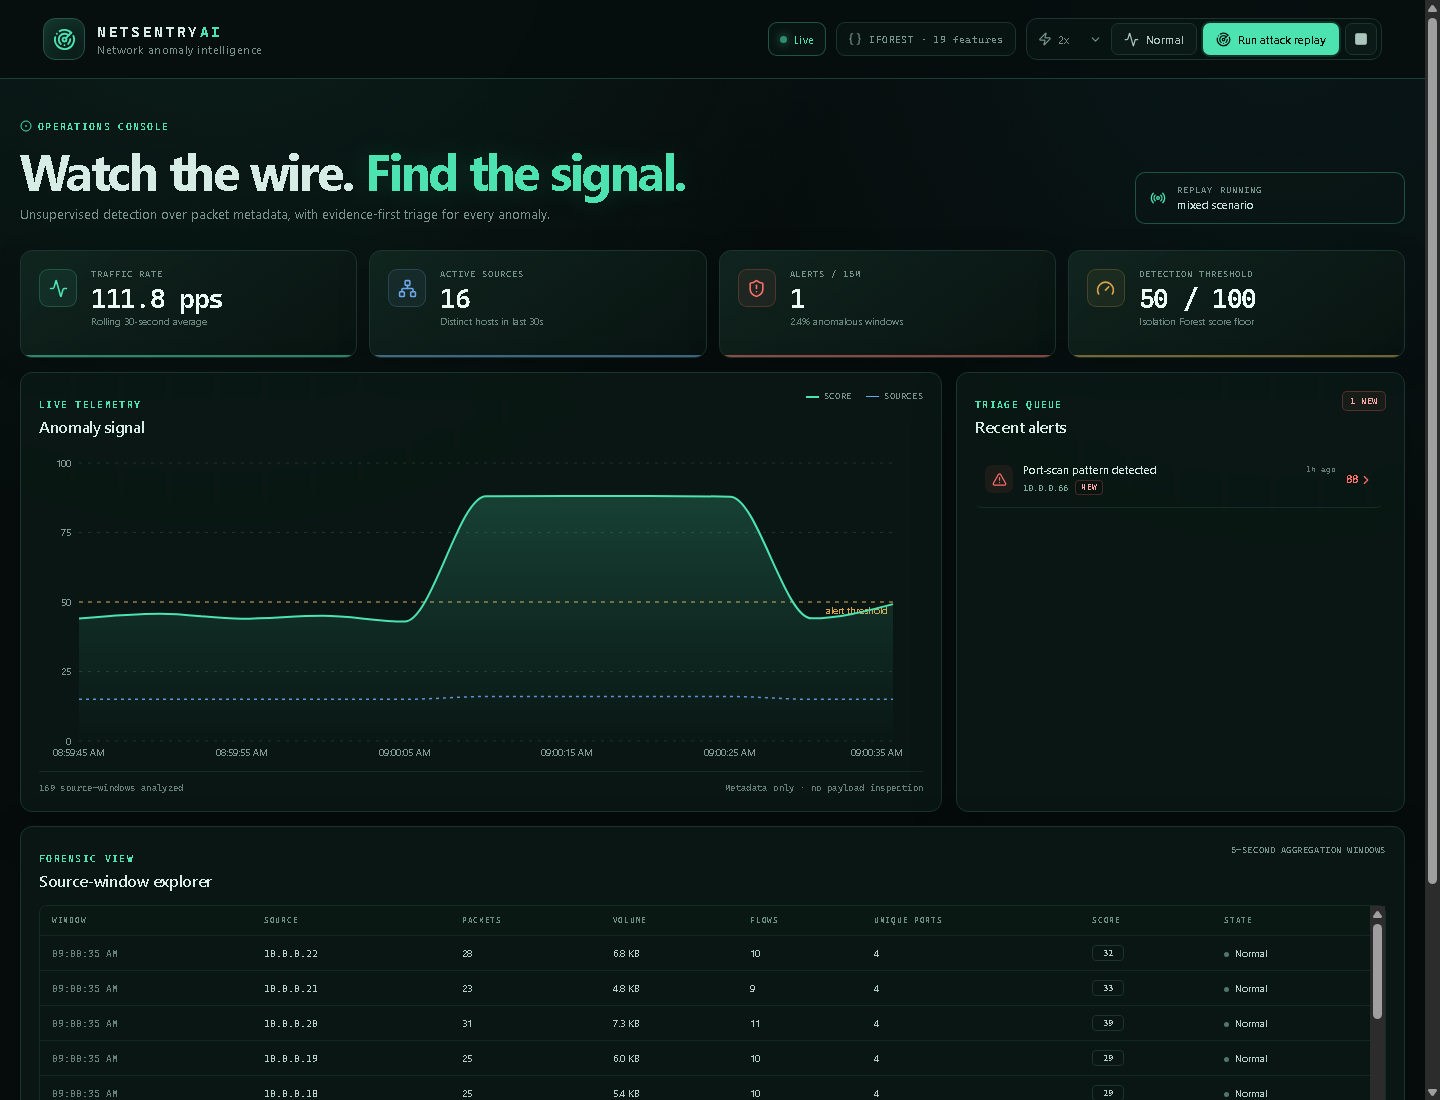
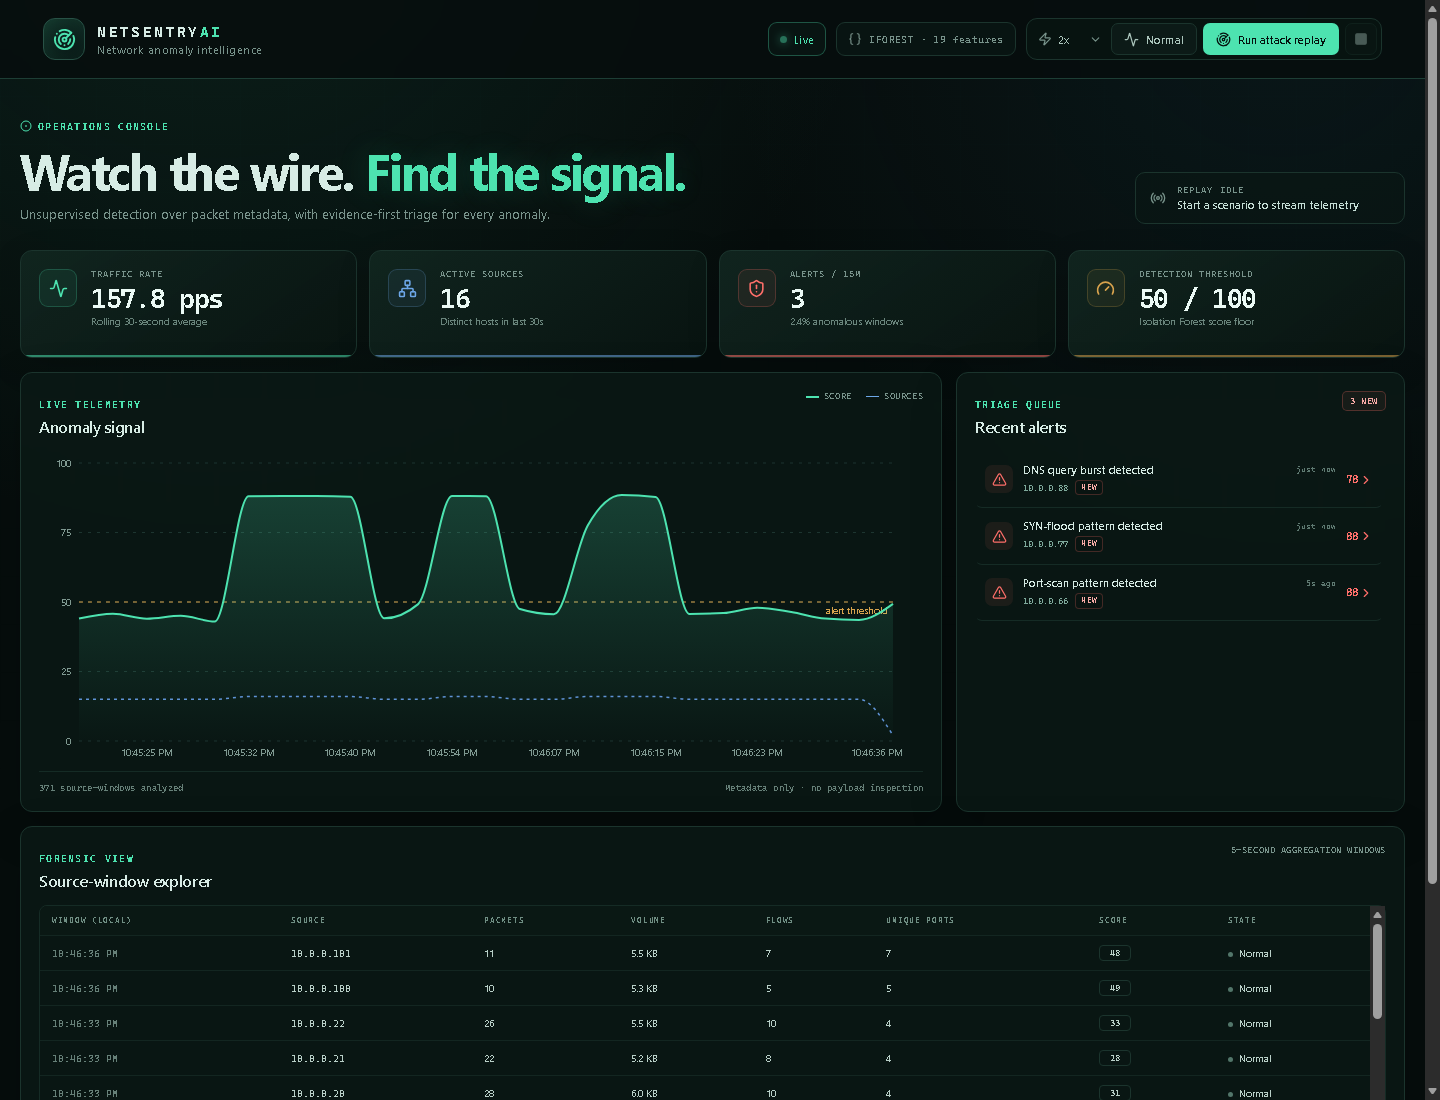
Synchronize replay and forensic timestamps

diff --git a/frontend/src/components/FlowTable.tsx b/frontend/src/components/FlowTable.tsx
@@ -11,7 +11,7 @@ export function FlowTable({ flows }: FlowTableProps) {
       <table>
         <thead>
           <tr>
-            <th>Window</th>
+            <th>Window (local)</th>
             <th>Source</th>
             <th>Packets</th>
             <th>Volume</th>

diff --git a/backend/app/api/routes.py b/backend/app/api/routes.py
@@ -9,6 +9,7 @@ from sqlalchemy.orm import Session
 
 from ..db import get_db
 from ..models import Alert, FlowWindow
+from ..timeutils import ensure_utc
 from ..schemas import (
     AlertDetail,
     AlertOut,
@@ -35,8 +36,8 @@ def _alert_out(alert: Alert) -> AlertOut:
         title=alert.title,
         reasons=[FeatureOut(**item) for item in json.loads(alert.reasons_json)],
         status=alert.status,
-        created_at=alert.created_at,
-        updated_at=alert.updated_at,
+        created_at=ensure_utc(alert.created_at),
+        updated_at=ensure_utc(alert.updated_at),
     )
 
 
@@ -44,8 +45,8 @@ def _flow_out(flow: FlowWindow) -> FlowWindowOut:
     return FlowWindowOut(
         id=flow.id,
         source_ip=flow.source_ip,
-        window_start=flow.window_start,
-        window_end=flow.window_end,
+        window_start=ensure_utc(flow.window_start),
+        window_end=ensure_utc(flow.window_end),
         packet_count=flow.packet_count,
         byte_count=flow.byte_count,
         flow_count=flow.flow_count,
@@ -105,7 +106,7 @@ def summary(request: Request, db: Session = Depends(get_db)) -> SummaryOut:
     ).all()
     timeline = [
         TimelinePoint(
-            timestamp=row.window_start,
+            timestamp=ensure_utc(row.window_start),
             max_score=round(float(row.max_score), 2),
             packets=int(row.packets),
             bytes=int(row.bytes),
@@ -202,4 +203,5 @@ def reset_data(db: Session = Depends(get_db)) -> dict:
     db.query(FlowWindow).delete()
     db.commit()
     return {"status": "reset"}
+
 

diff --git a/backend/tests/test_api.py b/backend/tests/test_api.py
@@ -1,4 +1,5 @@
 from fastapi.testclient import TestClient
+import time
 
 from app.main import app
 
@@ -20,12 +21,30 @@ def test_websocket_stream_announces_itself() -> None:
 
 def test_demo_and_dashboard_flow() -> None:
     with TestClient(app) as client:
-        start = client.post("/api/demo/start", json={"scenario": "mixed", "speed": 5, "reset": True})
+        start = client.post(
+            "/api/demo/start",
+            json={"scenario": "mixed", "speed": 5, "reset": True},
+        )
         assert start.status_code == 200
         assert start.json()["running"] is True
+
+        deadline = time.monotonic() + 6
+        delivered = 0
+        while time.monotonic() < deadline:
+            time.sleep(0.2)
+            delivered = client.get("/api/health").json()["demo"]["windows_delivered"]
+            if delivered:
+                break
+        assert delivered > 0
+
         response = client.get("/api/summary")
         assert response.status_code == 200
         assert "timeline" in response.json()
+
+        flows = client.get("/api/flows?limit=1").json()
+        assert flows
+        assert flows[0]["window_start"].endswith("Z") or flows[0]["window_start"].endswith("+00:00")
+
         stop = client.post("/api/demo/stop")
         assert stop.status_code == 200
         assert stop.json()["running"] is False

diff --git a/backend/app/demo/runner.py b/backend/app/demo/runner.py
@@ -1,6 +1,7 @@
 from __future__ import annotations
 
 import asyncio
+from datetime import datetime, timedelta, timezone
 from itertools import groupby
 
 from sqlalchemy import delete
@@ -68,12 +69,20 @@ class DemoRunner:
             for _, batch in groupby(windows, key=lambda item: item.window_start):
                 await asyncio.sleep(settings.demo_interval_seconds / max(speed, 0.25))
                 batch_list = list(batch)
+                # Replayed PCs are recorded traffic, not live events. Stamp each batch with
+                # the actual replay time so the chart, forensic table, and alert timestamps
+                # share the same wall-clock basis. The source PCAP remains the forensic record.
+                replay_time = datetime.now(timezone.utc)
                 for window in batch_list:
+                    window.window_start = replay_time
+                    window.window_end = replay_time + timedelta(seconds=settings.window_seconds)
                     await self.engine.ingest(window)
                     self.windows_delivered += 1
                 await self.broadcaster.broadcast("demo", self.status())
         finally:
             self.running = False
             await self.broadcaster.broadcast("demo", self.status())
+
+
 
 

diff --git a/backend/app/engine.py b/backend/app/engine.py
@@ -11,6 +11,7 @@ from .db import SessionLocal
 from .features.extractor import FeatureWindow
 from .ml.detector import AnomalyDetector, DetectionResult
 from .models import Alert, FlowWindow
+from .timeutils import iso_utc
 from .ws import ConnectionManager
 
 
@@ -123,6 +124,7 @@ class DetectionEngine:
             "title": alert.title,
             "reasons": json.loads(alert.reasons_json),
             "status": alert.status,
-            "created_at": alert.created_at.isoformat(),
-            "updated_at": alert.updated_at.isoformat(),
+            "created_at": iso_utc(alert.created_at),
+            "updated_at": iso_utc(alert.updated_at),
         }
+

diff --git a/backend/app/timeutils.py b/backend/app/timeutils.py
@@ -1,0 +1,14 @@
+from __future__ import annotations
+
+from datetime import datetime, timezone
+
+
+def ensure_utc(value: datetime) -> datetime:
+    """Return an aware UTC datetime, treating naive database values as UTC."""
+    if value.tzinfo is None:
+        return value.replace(tzinfo=timezone.utc)
+    return value.astimezone(timezone.utc)
+
+
+def iso_utc(value: datetime) -> str:
+    return ensure_utc(value).isoformat()

diff --git a/README.md b/README.md
@@ -109,6 +109,9 @@ Then open <http://127.0.0.1:8000>. FastAPI serves the built frontend from `front
 The **Normal** control replays only baseline traffic. The **Run attack replay** control replays a mixed
 capture with both baseline traffic and injected attacks.
 
+Replay events are stamped with their actual ingestion time so the timeline, forensic table, and alert
+relative times remain synchronized. The original PCAP is left unchanged.
+
 ## API
 
 | Method | Endpoint | Purpose |
